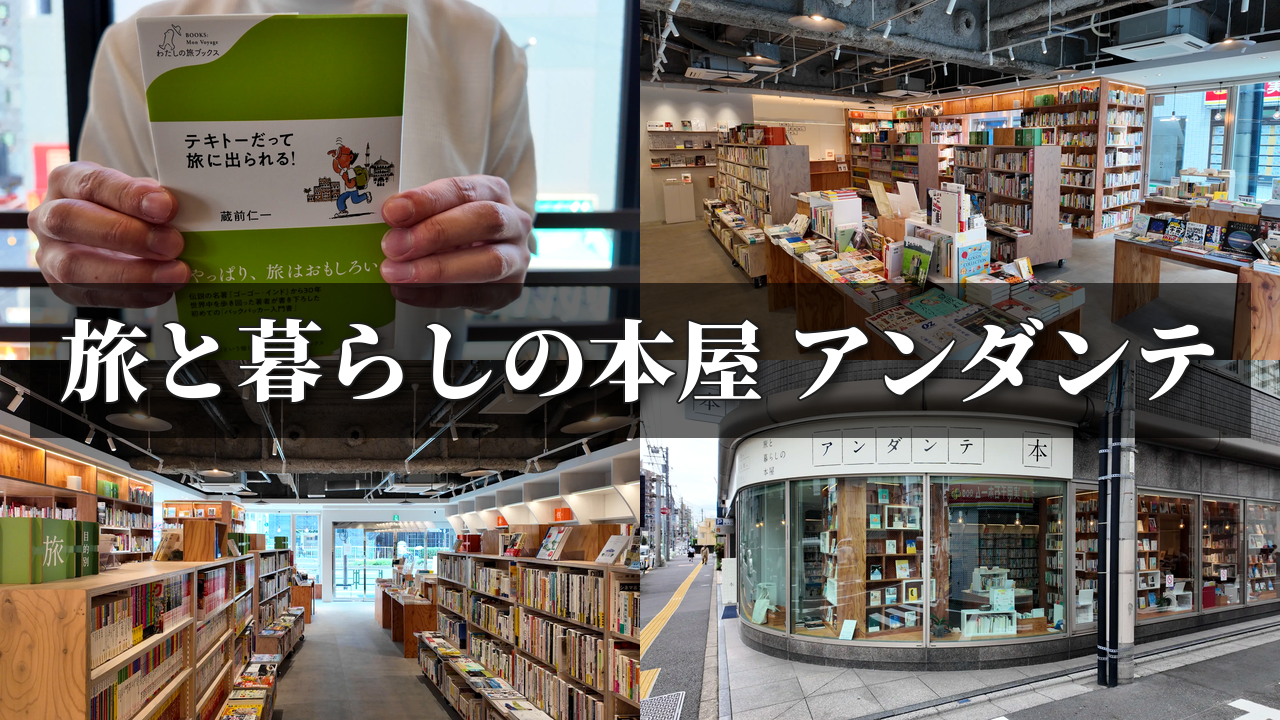
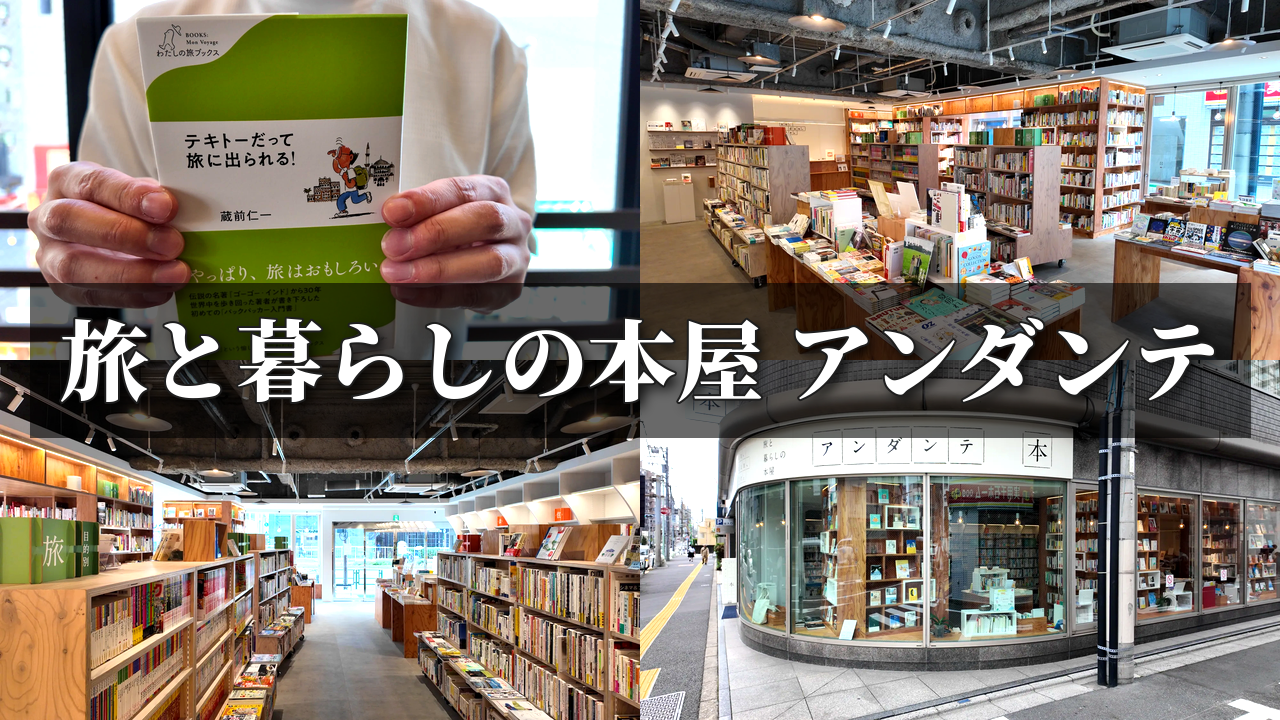
サムネイルの写真を明るく調整
Claude-Session: https://claude.ai/code/session_01PgBssd9mgKDSdASv1kBNHd

diff --git a/thumbnail/make_thumbnail.py b/thumbnail/make_thumbnail.py
@@ -19,6 +19,7 @@ FONT = HERE / "fonts" / "NotoSerifJP-Black.ttf"
 TITLE = "旅と暮らしの本屋 アンダンテ"
 MAX_FONT = 110
 MAX_TEXT_W = 1160
+BRIGHTNESS = 1.18  # 写真の明るさ（1.0 = 元のまま）
 
 
 def find_photo(folder: Path, n: int):
@@ -50,6 +51,7 @@ def build(folder: Path) -> Path:
         p = find_photo(folder, i)
         tile = cover(Image.open(p).convert("RGB"), cw, ch) if p else placeholder(i, cw, ch)
         # 参考サムネと同じく少しだけ鮮やかに
+        tile = ImageEnhance.Brightness(tile).enhance(BRIGHTNESS)
         tile = ImageEnhance.Color(tile).enhance(1.12)
         tile = ImageEnhance.Contrast(tile).enhance(1.05)
         canvas.paste(tile, (x, y))
